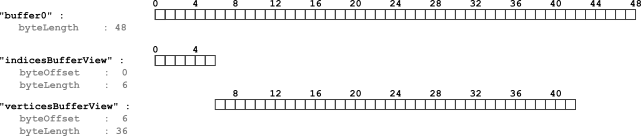
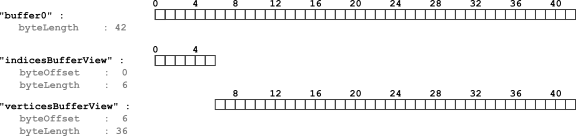
Fixed buffer length in images

diff --git a/gltfTutorial/gltfTutorial_003_MinimalGltfFile.md b/gltfTutorial/gltfTutorial_003_MinimalGltfFile.md
@@ -148,7 +148,7 @@ A more detailed description about meshes and mesh primitives can be found in the
 
 As described in the section about [Binary data in buffers](gltfTutorial_002_BasicGltfStructure.md#binary-data-in-buffers), a [`buffer`](https://github.com/KhronosGroup/glTF/tree/master/specification#reference-buffer) defines a block of raw, unstructured data with no inherent meaning. It contains a `uri`, which can either point to an external file that contains the data, or it can be a [data URI](gltfTutorial_002_BasicGltfStructure.md#binary-data-in-buffers) that encodes the data directly in the JSON file.
 
-In the example file, the second approach is used: There is a single buffer with the ID `"buffer0"`, containing 48 bytes, and the data of a this buffer is encoded as a data URI:
+In the example file, the second approach is used: There is a single buffer with the ID `"buffer0"`, containing 42 bytes, and the data of a this buffer is encoded as a data URI:
 
 ```javascript
   "buffers" : {
@@ -161,7 +161,7 @@ In the example file, the second approach is used: There is a single buffer with 
 ```
 <p align="center">
 <img src="images/buffer.png" /><br>
-<a name="buffer-png"></a>Image 3b: The buffer, containing 48 bytes
+<a name="buffer-png"></a>Image 3b: The buffer, containing 42 bytes
 </p>
 
 In the given example, this data contains the indices of the triangle, and the vertex positions of the triangle. But in order to actually use this data as the geometry data of a mesh primitive, additional information about the *structure* of this data is required.
